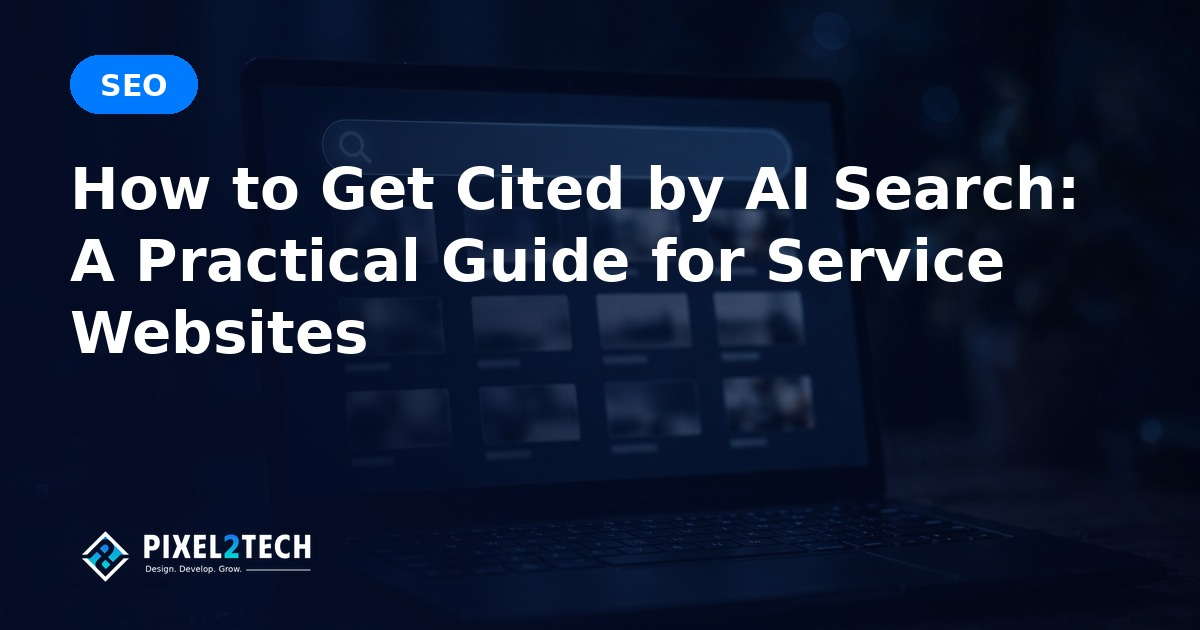
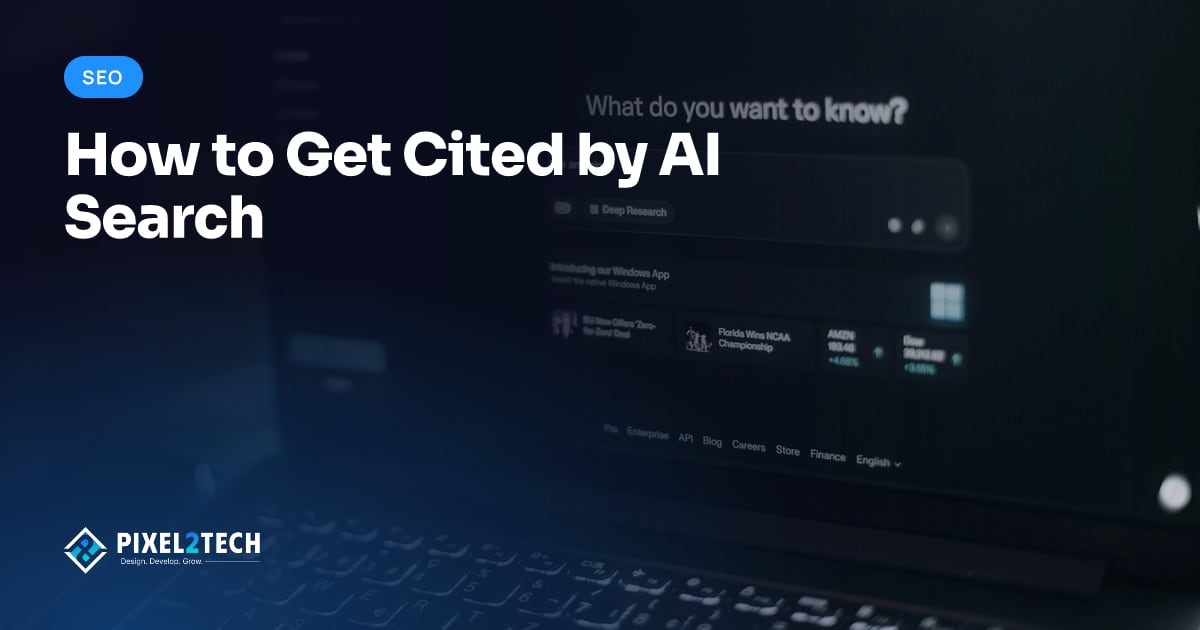
Rebuild 19 blog covers on the brand template
Peru and every post after it had covers in a generic font with the full
title and heavy overlays. They now use the photo template (Sora title,
short headline, navy gradient, logo) with free Unsplash photos picked
for each topic, and the index paths carry ?v=3 so cached copies refresh.

diff --git a/src/lib/blog-index.ts b/src/lib/blog-index.ts
@@ -40,7 +40,7 @@ tag: "AI Solutions",
     date: "November 9, 2026",
     time: "5:12 pm",
     author: "Asad Farooq",
-    img: "/blog/covers/ai-quoting-proposals-faster-estimates.jpg",
+    img: "/blog/covers/ai-quoting-proposals-faster-estimates.jpg?v=3",
     imgAlt: "A person reviewing an AI drafted quote on a laptop",
   },
   {
@@ -52,7 +52,7 @@ tag: "AI Solutions",
         date: "November 9, 2026",
         time: "2:57 pm",
         author: "Asad Farooq",
-        img: "/blog/covers/google-business-profile-posts-local-enquiries.jpg",
+        img: "/blog/covers/google-business-profile-posts-local-enquiries.jpg?v=3",
         imgAlt: "A smartphone showing a Google Business Profile listing",
   },
   {
@@ -64,7 +64,7 @@ tag: "AI Solutions",
         date: "November 9, 2026",
         time: "12:38 pm",
         author: "Asad Farooq",
-        img: "/blog/covers/speed-up-slow-wordpress-site-checklist.jpg",
+        img: "/blog/covers/speed-up-slow-wordpress-site-checklist.jpg?v=3",
         imgAlt: "A laptop showing a website loading with a stopwatch beside it",
   },
     {
@@ -76,7 +76,7 @@ tag: "AI Solutions",
     date: "November 9, 2026",
     time: "10:44 am",
     author: "Asad Farooq",
-    img: "/blog/covers/how-to-name-service-business-memorable.jpg",
+    img: "/blog/covers/how-to-name-service-business-memorable.jpg?v=3",
     imgAlt: "A person brainstorming business name ideas on a whiteboard",
   },
   {
@@ -88,7 +88,7 @@ tag: "AI Solutions",
     date: "November 8, 2026",
     time: "7:21 pm",
     author: "Asad Farooq",
-    img: "/blog/covers/selling-new-jersey-website.jpg",
+    img: "/blog/covers/selling-new-jersey-website.jpg?v=3",
     imgAlt: "A New Jersey main street with small shops at dusk",
   },
   {
@@ -100,7 +100,7 @@ tag: "AI Solutions",
         date: "November 8, 2026",
         time: "4:57 pm",
         author: "Asad Farooq",
-        img: "/blog/covers/monthly-email-newsletter-service-businesses.jpg",
+        img: "/blog/covers/monthly-email-newsletter-service-businesses.jpg?v=3",
         imgAlt: "A person writing a newsletter on a laptop at a desk",
   },
   {
@@ -112,7 +112,7 @@ tag: "AI Solutions",
         date: "November 8, 2026",
         time: "2:49 pm",
         author: "Asad Farooq",
-        img: "/blog/covers/subtitles-captions-ads-watch-time.jpg",
+        img: "/blog/covers/subtitles-captions-ads-watch-time.jpg?v=3",
         imgAlt: "A video editor checking captions on a monitor timeline",
   },
     {
@@ -124,7 +124,7 @@ tag: "AI Solutions",
     date: "November 8, 2026",
     time: "12:33 pm",
     author: "Asad Farooq",
-    img: "/blog/covers/automate-handover-sales-to-delivery.jpg",
+    img: "/blog/covers/automate-handover-sales-to-delivery.jpg?v=3",
     imgAlt: "One colleague handing a folder to another in an office",
   },
   {
@@ -136,7 +136,7 @@ tag: "AI Solutions",
         date: "November 8, 2026",
         time: "10:41 am",
         author: "Asad Farooq",
-        img: "/blog/covers/internal-tools-team-actually-use.jpg",
+        img: "/blog/covers/internal-tools-team-actually-use.jpg?v=3",
         imgAlt: "A small team working around a laptop showing a dashboard",
   },
     {
@@ -148,7 +148,7 @@ tag: "AI Solutions",
         date: "November 7, 2026",
         time: "7:36 pm",
         author: "Asad Farooq",
-        img: "/blog/covers/selling-dubai-qatar-website-gulf-buyers.jpg",
+        img: "/blog/covers/selling-dubai-qatar-website-gulf-buyers.jpg?v=3",
         imgAlt: "The Dubai skyline at dusk with modern towers",
   },
   {
@@ -160,7 +160,7 @@ tag: "AI Solutions",
         date: "November 7, 2026",
         time: "5:08 pm",
         author: "Asad Farooq",
-        img: "/blog/covers/ai-lead-qualification-before-first-call.jpg",
+        img: "/blog/covers/ai-lead-qualification-before-first-call.jpg?v=3",
         imgAlt: "A sales dashboard showing qualified leads sorted by score",
   },
   {
@@ -172,7 +172,7 @@ tag: "AI Solutions",
         date: "November 7, 2026",
         time: "2:52 pm",
         author: "Asad Farooq",
-        img: "/blog/covers/get-cited-ai-search-service-websites.jpg",
+        img: "/blog/covers/get-cited-ai-search-service-websites.jpg?v=3",
         imgAlt: "A laptop showing an AI search answer citing a service website",
   },
     {
@@ -184,7 +184,7 @@ tag: "AI Solutions",
     date: "November 7, 2026",
     time: "12:19 pm",
     author: "Asad Farooq",
-    img: "/blog/covers/woocommerce-vs-shopify-service-businesses.jpg",
+    img: "/blog/covers/woocommerce-vs-shopify-service-businesses.jpg?v=3",
     imgAlt: "A service business owner comparing two online store dashboards",
   },
   {
@@ -196,7 +196,7 @@ tag: "AI Solutions",
     date: "November 7, 2026",
     time: "10:47 am",
     author: "Asad Farooq",
-    img: "/blog/covers/logo-refresh-checklist-keep-change-test.jpg",
+    img: "/blog/covers/logo-refresh-checklist-keep-change-test.jpg?v=3",
     imgAlt: "A designer reviewing a refreshed logo on a laptop screen",
   },
   {
@@ -208,7 +208,7 @@ tag: "AI Solutions",
     date: "November 6, 2026",
     time: "7:21 pm",
     author: "Asad Farooq",
-    img: "/blog/covers/one-question-week-social-content.jpg",
+    img: "/blog/covers/one-question-week-social-content.jpg?v=3",
     imgAlt: "A notebook and laptop used to plan a week of social media posts",
   },
   {
@@ -220,7 +220,7 @@ tag: "AI Solutions",
   date: "November 6, 2026",
   time: "4:57 pm",
   author: "Asad Farooq",
-  img: "/blog/covers/short-form-video-hooks-first-three-seconds.jpg",
+  img: "/blog/covers/short-form-video-hooks-first-three-seconds.jpg?v=3",
   imgAlt: "A creator filming a short video on a smartphone with a ring light",
   },
   {
@@ -232,7 +232,7 @@ tag: "AI Solutions",
     date: "November 6, 2026",
     time: "2:49 pm",
     author: "Asad Farooq",
-    img: "/blog/covers/lead-scoring-without-big-crm.jpg",
+    img: "/blog/covers/lead-scoring-without-big-crm.jpg?v=3",
     imgAlt: "A sales team workspace with a customer dashboard on a monitor",
   },
     {
@@ -244,7 +244,7 @@ tag: "AI Solutions",
         date: "November 6, 2026",
         time: "12:33 pm",
         author: "Asad Farooq",
-        img: "/blog/covers/custom-quote-calculator-service-websites.jpg",
+        img: "/blog/covers/custom-quote-calculator-service-websites.jpg?v=3",
         imgAlt: "A small business owner reviewing a price quote on a laptop",
   },
   {
@@ -256,7 +256,7 @@ slug: "selling-peru-website-latin-american-buyers",
     date: "November 6, 2026",
     time: "10:41 am",
     author: "Asad Farooq",
-    img: "/blog/covers/selling-peru-website-latin-american-buyers.jpg",
+    img: "/blog/covers/selling-peru-website-latin-american-buyers.jpg?v=3",
     imgAlt: "A colourful street in Lima, Peru, with colonial balconies",
   },
     {
